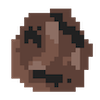
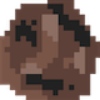
Changed some asteroid assets

diff --git a/include/SWSB_assets.h b/include/SWSB_assets.h
@@ -43,8 +43,8 @@
 #define ASTER_BROWN_3_IMG   "../assets/asteroid_brown_3.png"
 #define ASTER_BROWN_4_IMG   "../assets/asteroid_brown_4.png"
 
-#define ASTER_MIN_SIZE      50
-#define ASTER_MAX_SIZE      60
+#define ASTER_MIN_SIZE      40
+#define ASTER_MAX_SIZE      45
 #define ASTER_VEL           (1 + BACKGROUND_VEL)
 #define ASTER_DAMAGE        100
 #define ASTER_HEALTH        30

diff --git a/src/SWSB_ent.c b/src/SWSB_ent.c
@@ -244,7 +244,7 @@ Entity *InitAsteroidEntity(SDL_Renderer *renderer)
 
 static bool IsAsterOutOfBounds(Entity *aster_ent)
 {
-    if ((aster_ent->box.y + (aster_ent->box.h / 4)) >= SCREEN_HEIGHT)
+    if ((aster_ent->box.y + (aster_ent->box.h / 3)) >= SCREEN_HEIGHT)
     {
         return true;
     }
